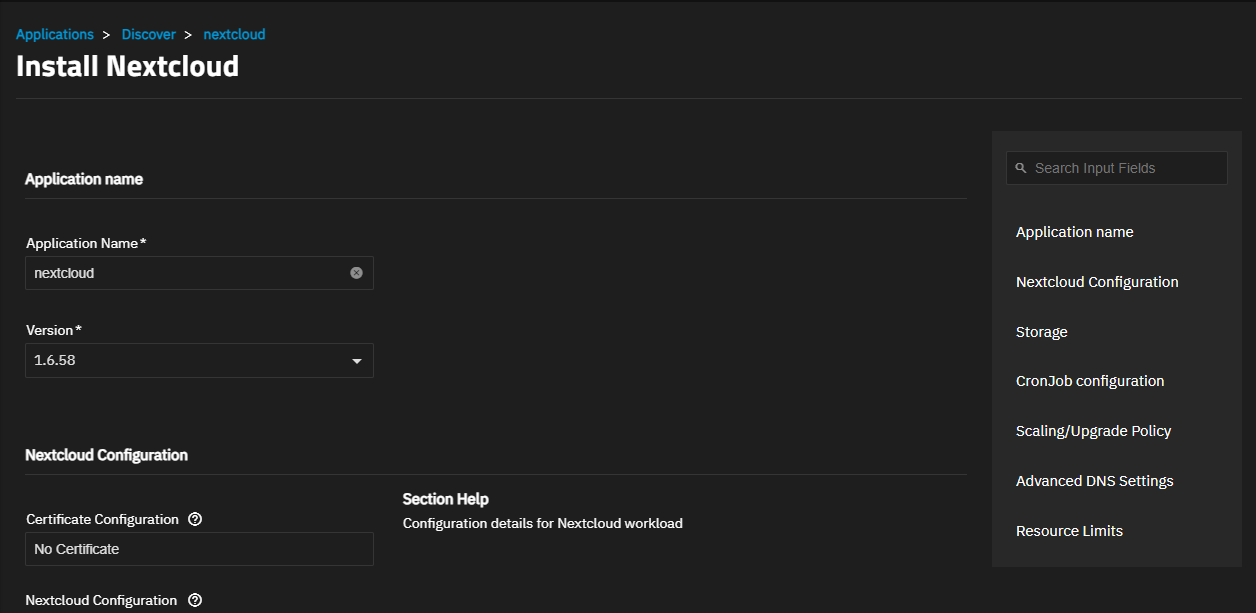
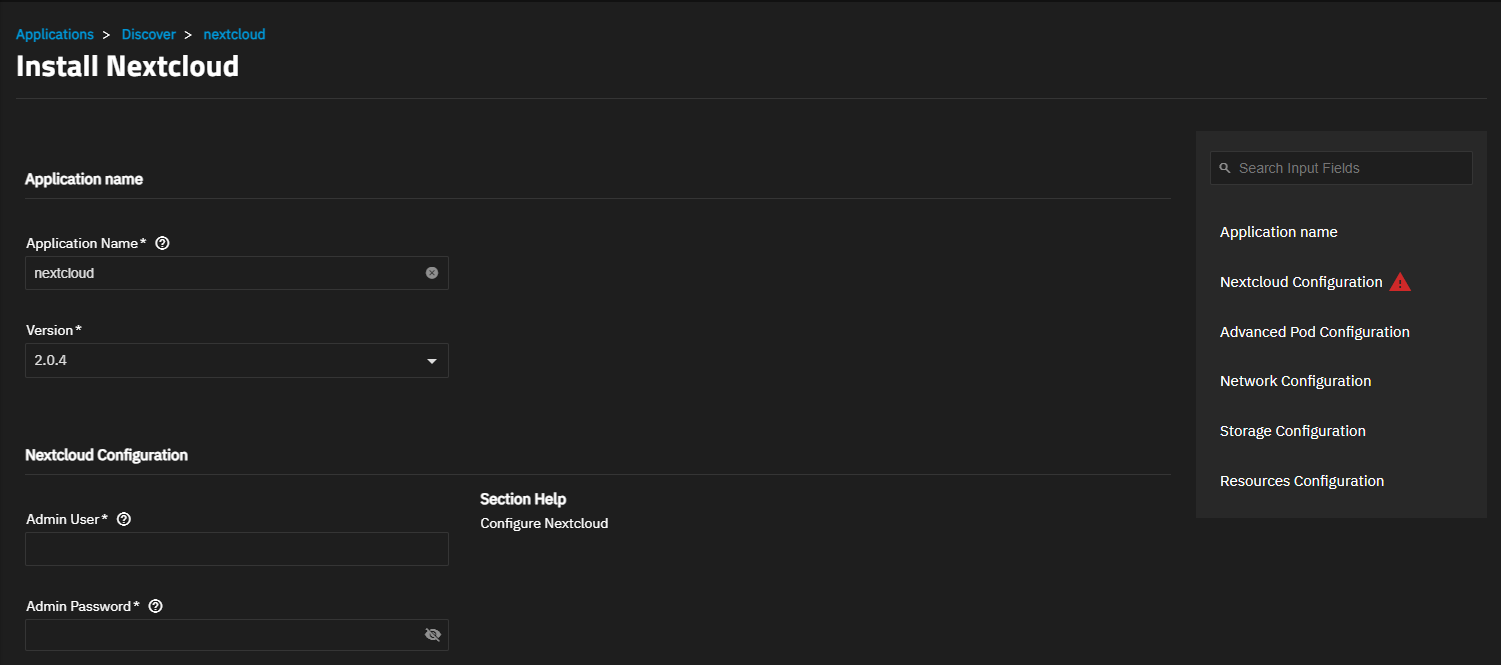
PD-1151 Backport Updates to Nextcloud Tutorial to 24.04
This PR backports the changes to the Nextcloud tutorial to 24.04.

diff --git a/content/SCALETutorials/Apps/CommunityApps/InstallNextCloudMedia.md b/content/SCALETutorials/Apps/CommunityApps/InstallNextCloudMedia.md
@@ -17,10 +17,10 @@ The instructions in this article apply to SCALE 22.12.0 and later.
 
 ## Before You Begin
 
-Before using SCALE to install the Nextcloud application you need to configure TrueNAS SCALE storage for Nextcloud application to use.
+Before using SCALE to install the Nextcloud application you need to [create four datasets](#adding-nextcloud-storage) to use as storage for the Nextcloud application.
 
-If you are creating a user account to manage this application, create the user with sudo permissions enabled, or make sure the [local administrator]({{< relref "ManageLocalUsersSCALE.md" >}}) account has sudo permissions enabled.
-If creating a new user, add this user to the dataset permissions.
+If you are creating a user account to manage this application, add the [local administrator]({{< relref "ManageLocalUsersSCALE.md" >}}) account with sudo permissions enabled.
+If creating a new user, add this user to the dataset ACL permissions.
 
 If you want to use a certificate for this application, create a new self-signed CA and certificate, or import the CA and create the certificate if using one already configured for Nextcloud. A certificate is not required to deploy the application.
 
@@ -30,9 +30,9 @@ Set up an account with Nextcloud if you don't already have one. Enter this user 
 
 In this procedure you:
 
-1. Add the storage Nextcloud uses
+1. Add the storage for Nextcloud to use.
 
-2. Install the Nextcloud app in SCALE
+2. Install the Nextcloud app in SCALE.
 
 ### Adding Nextcloud Storage
 
@@ -72,16 +72,13 @@ When finished you should have the **nextcloud** parent dataset with four child d
 ### Installing Nextcloud in SCALE
 
 Go to **Apps**.
+If the pool for apps is not already set, do it when prompted.
 
-1. Set the pool SCALE applications use.
-   If you have not installed an application yet, click **Settings**, select **Choose Pool** to open the **Choose a pool for Apps** dialog.
-   Enter or select the name of the pool where you created the Nextcloud datasets from the **Pools** dropdown list and then click **Choose** to set the pool for all applications.
+{{< trueimage src="/images/SCALE/Apps/AppsChooseAPoolForApps.png" alt="Choose A Pool for Apps" id="Choose A Pool for Apps" >}}
 
-   {{< trueimage src="/images/SCALE/Apps/AppsChooseAPoolForApps.png" alt="Choose A Pool for Apps" id="Choose A Pool for Apps" >}}
+When set, the **Installed Applications** screen displays **Apps Service Running** on the top screen banner.
 
-   When set, the **Installed Applications** screen displays **Apps Service Running** on the top screen banner.
-
-2. Click **Discover Apps** and then locate the **Nextcloud** app.
+1. Click **Discover Apps** and then locate the **Nextcloud** app.
    Change the **Sort** to **App Name**, then type **Nextcloud** in the search field to display the app widget.
 
    {{< trueimage src="/images/SCALE/Apps/LocateNextcloudAppWidget.png" alt="Locate Nextcloud App Widget" id="Locate Nextcloud App Widget" >}}
@@ -99,58 +96,67 @@ Go to **Apps**.
 
    {{< trueimage src="/images/SCALE/Apps/InstallNextcloudScreen.png" alt="Install Nextcloud Screen" id="Install Nextcloud Screen" >}}
 
-3. Enter a name for the app in **Application Name** if you want to change what displays or have multiple Nextcloud app deployments on your system.
+2. Accept the default name for the app in **Application Name** or enter a new name if you want to change what displays or have multiple Nextcloud app deployments on your system.
    This example uses the default *nextcloud*.
 
-4. Scroll down to or click on **Nextcloud Configuration** to show the app configuration settings.
+3. Scroll down to or click on **Nextcloud Configuration** to show the app configuration settings.
    For a basic installation you can leave the default values in all settings except **Username** and **Password**.
 
-   a. (Optional) Click in the **Certificate Configuration** field and select the certificate for Nextcloud if already created and using a certificate.
+   a. Enter the username and password created in the [Before You Begin](#before-you-begin) section or for the existing Nextcould administrator user account credentials.
+      This example uses *admin* as the user.
 
-   b. Enter the Nextcloud username and password created in the [Before You Begin](#before-you-begin) section or existing Nextcould user account credentials.
-   This example uses *admin* as the user.
+    {{< trueimage src="/images/SCALE/Apps/InstallNextcloudConfigUsernamePassword.png" alt="Nextcloud Configuration Username" id="Nextcloud Configuration Username" >}}
 
-   {{< trueimage src="/images/SCALE/Apps/InstallNextcloudConfigUsernamePassword.png" alt="Nextcloud Configuration Username" id="Nextcloud Configuration Username" >}}
+     TrueNAS populates **Host** with the IP address for your TrueNAS server and **Nextcloud data directory** populates with the correct path.
 
-   TrueNAS populates **Nextcloud host** with the IP address for your TrueNAS server and **Nextcloud data directory** populates with the correct path.
+   b. Click **Add** to the right of **Command** to show the **Command** field then click in that field and select **Install ffmpeg** to automatically install the FFmpeg utility when the container starts.
 
+    {{< trueimage src="/images/SCALE/Apps/InstallNextcloudConfigAddInstallffmpetCommand.png" alt="Add Install ffmpeg Command" id="Add Install ffmpeg Command" >}}
+
+   c. (Optional) Click in the **Certificate Configuration** field and select the certificate for Nextcloud if already created and using a certificate.
    Select **Install ffmpeg** to automatically install the utility FFmpeg when the container starts.
 
-   {{< trueimage src="/images/SCALE/Apps/InstallNextcloudConfigEnvironmentVariable.png" alt="Nextcloud Configuration Environment Variable" id="Nextcloud Configuration Environment Variable" >}}
+   d. Leave **Cronjobs** selected which enables this by default. Select the schedule you want to use for the cron job option.
 
-   TrueNAS populates the **Node Port to use for Nextcloud** field with the correct port number.
-   To specify an optional **Nextcloud environment** name and value, click the **Add** button.
+     {{< expand "Nextcloud Cron Jobs" "v" >}}
+     NextCloud cron jobs only run while the app is running. If you stop the app, the cron job(s) do not run until you start the app again.
 
-5. Enter the storage settings for each of the four datasets created for Nextcloud.
+     For more information on formatting and using cron jobs, see [Managing Cron Jobs]({{< relref "ManageCronJobsSCALE.md" >}}).
+     {{< /expand >}}
+
+   e. To specify an optional **Environment Variable** name and value, click the **Add** button.
+
+4. Accept the port number TrueNAS populates in the **Web Port** field in **Network Configuration**.
+
+5. Enter the storage settings for each of the four datasets created for the Nextcloud app.
+
+   Do not select **Pre v2 Storage Structure** if you are deploying Nextcloud for the first time as this slows down the installation and is not necessary.
+   If you are upgrading where your Nextcloud deployment in SCALE was a 1.x.x release, select this option.
 
    a. Select **Enable Host Path for Nextcloud Data Volume**, then browse to and select the **nextcloud/data** dataset to populate the **Host Path for Nextcloud Data Volume** field.
 
-   {{< trueimage src="/images/SCALE/Apps/InstallNextcloudEnableHostPath.png" alt="Enable Nextcloud Host Path" id="EnableNextcloud Host Path" >}}
+      {{< trueimage src="/images/SCALE/Apps/InstallNextcloudEnableHostPath.png" alt="Add Nextcloud Storage Host Path" id="Add Nextcloud Storage Host Path" >}}
+   
+      Enter or browse to select the path to the **data** dataset created for Nextcloud.
+
+      You can set the ACL permissions here by selecting **Enable ACL** but it not necessary. You can also change dataset permissions from the **Datasets** screen using the **Edit** button on the **Permissions** widget for the Nextcloud **Data** dataset.
 
    b. Click **Add** to display the **Mount Path in Pod** and **Host Path** fields.
       Enter or browse to select the host path for the **nextcloud/opt** dataset to populate the **Host Path** field, then enter the path in the **Mount Path in Pod** field. This example uses the **/mnt/tank/nextcloud/opt** path.
 
-   {{< trueimage src="/images/SCALE/Apps/InstallNetdataStorageExtraHostPath.png" alt="Add Host Path Nextcloud Data Volume" id="Add Host Path Nextcloud Data Volume" >}}
+    {{< trueimage src="/images/SCALE/Apps/InstallNextcloudStorageConfigPostgressHostPaths.png" alt="Add Nextcloud Storage Volumes" id="Add Nextcloud Storage Volumes" >}}
 
-   c. Select **Enable Host Path for Postgres Data Volume**, and then enter or browse to the **nextcloud/db** dataset location in **Host Path for Postgres Data Volume**.
+   c. Scroll down to the next storage option for **Nextcloud User Data Storage** and select **Host Path** again.
+      Enter or browse to select the path for the **opt** dataset.
 
-   {{< trueimage src="/images/SCALE/Apps/InstallNextcloudAddPostgresDataVolume.png" alt="Add Host Path for Postgres Data Volume" id="Add Host Path for Postgres Data Volume" >}}
+   d. Scroll down to select the storage for **Nextcloud Postgres Data Storage**, select **Host Path** and then enter or browse to the **nextcloud/db** dataset location.
 
-   d. Select **Enable Host Path for Postgres Backup Volume**, and then enter or browse to the **nextcloud/dbbackup** dataset location in the **Host Path for Postgres Backup Volume**.
+   e. Scroll down to **Nextcloud Postgres Backup Storage**, select **Host Path**, and then enter or browse to the path for the **dbbackup** dataset.
 
-   {{< trueimage src="/images/SCALE/Apps/InstallNextcloudAddPostgresBackupVolume.png" alt="Add Host Path for Postgres Backup Volume" id="Add Host Path for Postgres Backup Volume" >}}
+6. Accept the remaining setting defaults.
 
-6. Select **Enable cronjobs for nextcloud** on the **CronJob configuration** screen.
+7. Scroll up to review the configuration settings and fix any errors or click **Install** to begin the installation.
 
-   {{< expand "Nextcloud Cron Jobs" "v" >}}
-   NextCloud cron jobs only run while the app is running. If you stop the app, the cron job(s) do not run until you start the app again.
-
-   For more information on formatting and using cron jobs, see [Managing Cron Jobs]({{< relref "ManageCronJobsSCALE.md" >}}).
-   {{< /expand >}}
-
-7. Accept the remaining setting defaults on the **Scaling/Upgrade Policy** and **Advanced DNS Settings** screens.
-
-8. Scroll up to review the configuration settings and fix any errors or **Save** to complete the installation.
    The **Installed** screen displays with the **nextcloud** app in the **Deploying** state.
    It changes to **Running** when ready to use.
    Click **Web Portal** on the **Application Info** widget to open the Nextcloud web portal sign-in screen.
@@ -158,12 +164,16 @@ Go to **Apps**.
 {{< trueimage src="/images/SCALE/Apps/NextcloudSignInScreen.png" alt="Nextcloud Sign In Screen" id="Nextcloud Sign In Screen" >}}
 
 ## Troubleshooting Tips
+The Nextcloud apps with releases earlier than 2.0.4 are known to have issues. Use the **Upgrade** option in the SCALE UI to update your Nextcloud release to 2.0.4.
+For more information on known issues, click [here](https://ixsystemsinc.slack.com/archives/C072YK2QZKM/p1715369467541109).
+
+For information on Nextcloud fixes involving TN Charts, see [PR 2447 nextcloud:fixes](https://github.com/truenas/charts/pull/2447)
 
 ### App Sticks in Deploying State
 If the app does not deploy, add the **www-data** user and group to the **/nextcloud** dataset but do not set recursive.
 Stop the app before editing the ACL permissions for the datasets.
 
-Next, add the **www-data** user and group to the **/nextcloud/data** dataset. You can set this to recursive, but it is not necessary.
+Next, try adding the **www-data** user and group to the **/nextcloud/data** dataset. You can set this to recursive, but it is not necessary.
 To do this:
 1. Select the dataset, scroll down to the **Permissions** widget, click **Edit** to open the **ACL Editor** screen.
 2. Click **Add Item**, select **User** in **Who** and **www-data** in the **User** field, and select **Full Control** in **Permissions**.
